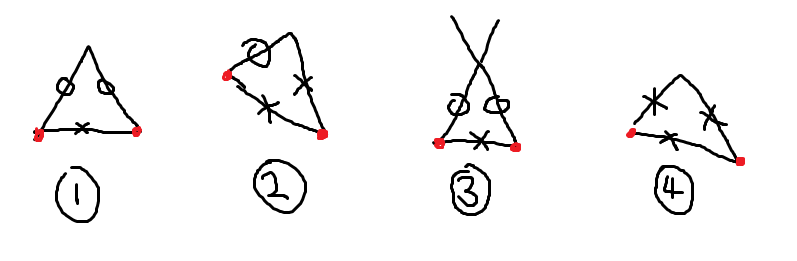
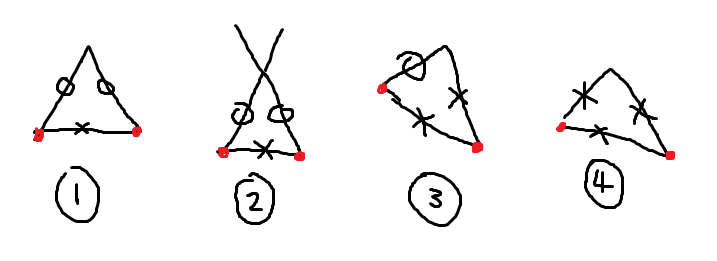
test added

diff --git a/advancing_front_test.py b/advancing_front_test.py
@@ -1,8 +1,43 @@
+import numpy as np
+
 from mesh import Mesh, Front_side, Front
+from plot_tools import Plot_nodes_2d
 
+vect_out_plane=np.array([0,0,1])
 
-#   create sides (manual node definition)
-#       add orientation to each
-#   init front
-#
-#   change front __init__ to not accept file
+#   Case 1,2 test:
+
+A=np.array([0,0,0])
+B=np.array([1,0,0])
+C=np.array([0.5,1.5,0])
+D=np.array([0.5,3,0])
+
+AB=B-A
+CD=D-C
+
+sides=[
+    Front_side(A,B,orientation=False,vect_out_plane=vect_out_plane),
+    Front_side(C,D,orientation=False,vect_out_plane=vect_out_plane)
+]
+
+""" 
+#   Case 3,4 test:
+
+A=np.array([0,0,0])
+B=np.array([1,0,0])
+C=np.array([0.3,1,0])
+
+AB=B-A
+BC=C-B
+CA=A-C
+
+sides=[
+    Front_side(A,B,orientation=False,vect_out_plane=vect_out_plane),
+    Front_side(B,C,orientation=False,vect_out_plane=vect_out_plane)
+    #Front_side(C,A,orientation=False,vect_out_plane=vect_out_plane)
+]
+"""
+
+front=Front(sides)
+
+mesh=Mesh(front=front,spacing=1)

diff --git a/README.md b/README.md
@@ -31,6 +31,17 @@ DONE 8. generate nodes based on edge loops rather than geometry
             - exclude nodes in vector opposite to orientation
     - create new tri panel
 
+Checks:
+- DONE case 1:
+    if no close nodes
+- DONE case 2:
+    if close node and no close side
+- case 3:
+    close side(s) = sides if a node = close node
+    if one node in close side(s) = current side node
+- case 4:
+    if 2 nodes in close sides = current side node
+
 ## STEP Datastructure:
 ```
 ADVANCED_FACE
